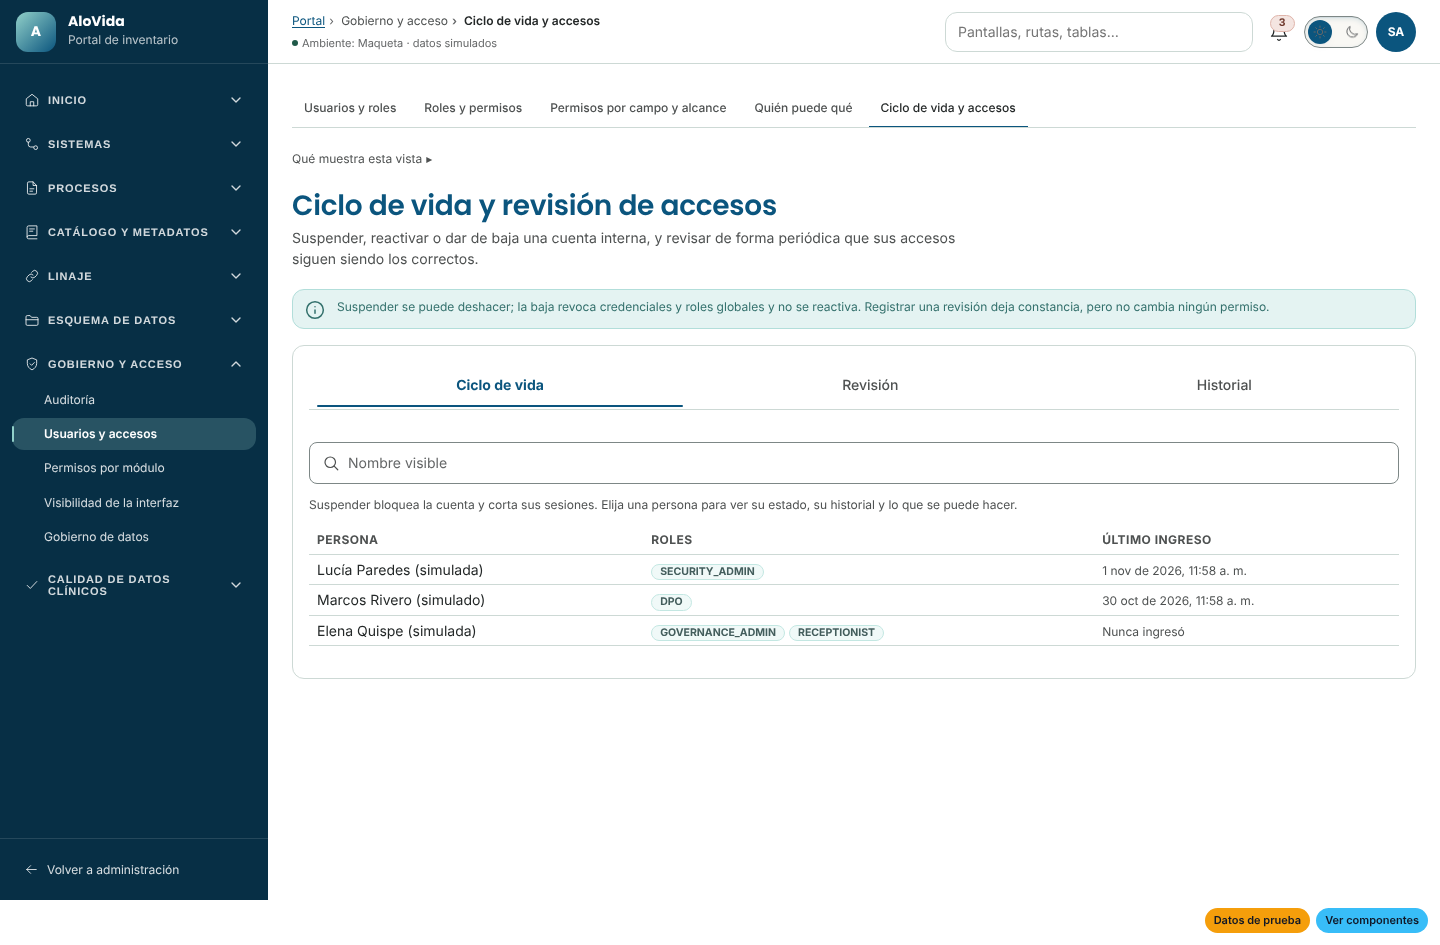
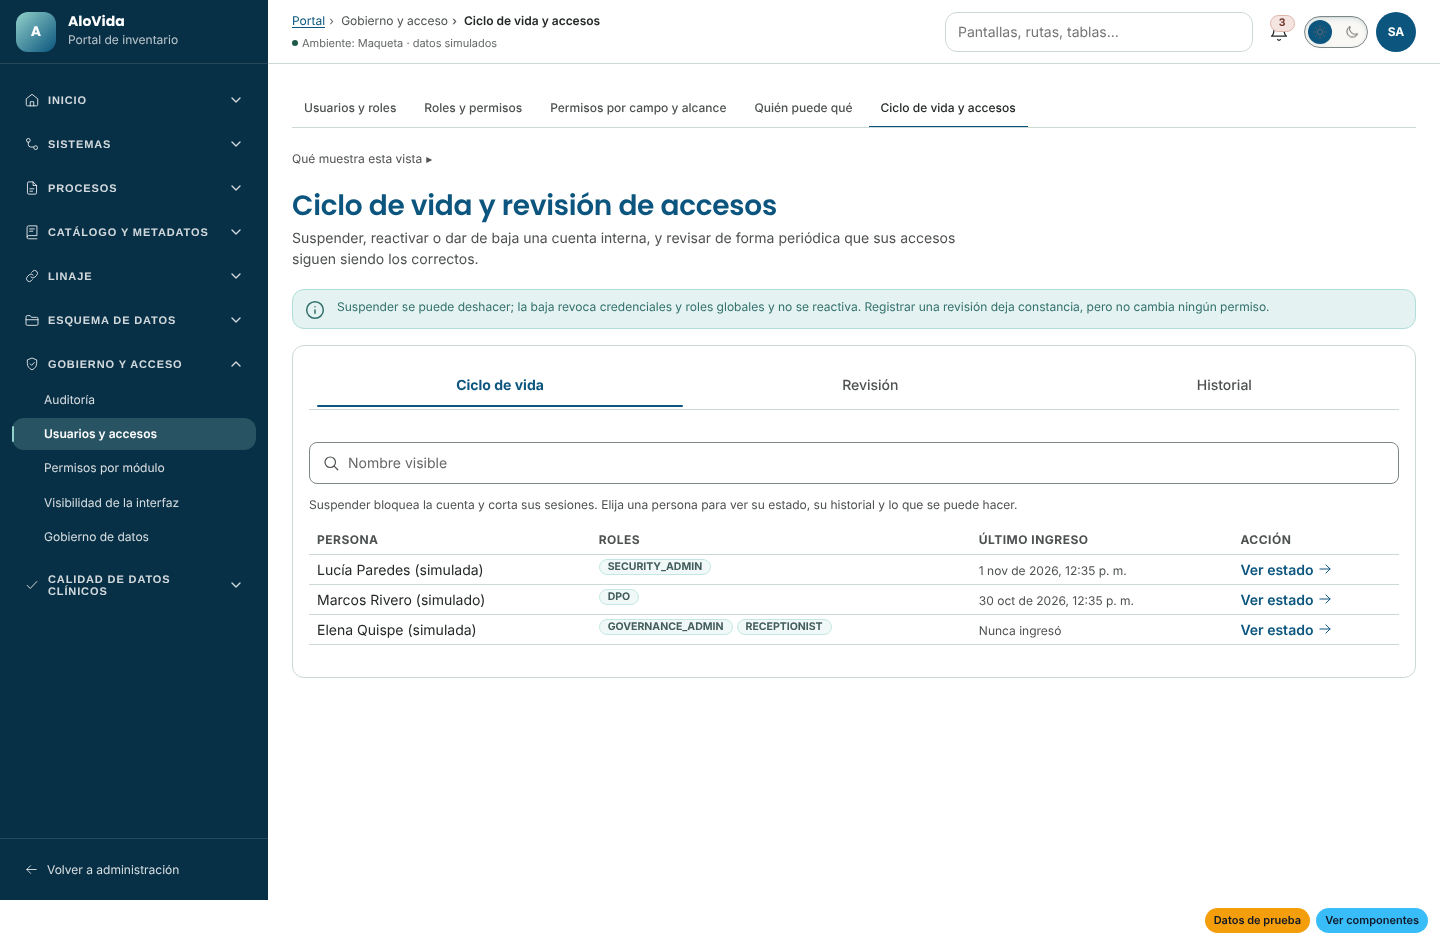
fix(portal): Ciclo de vida y accesos — columna «Acción» con flecha en filas que abren ficha; evidencia de vacío/error/carga (revisión visual 1)
Claude-Session: https://claude.ai/code/session_015srVoda962hL6gd5RrH9vw

Changed region(s): [[0.6562, 0.5524, 0.9375, 0.6751], [0.4062, 0.5524, 0.625, 0.7058], [0.2188, 0.6444, 0.3438, 0.6751]]

diff --git a/src/app/features/admin/portal/permissions/reviews/lifecycle-panel.ts b/src/app/features/admin/portal/permissions/reviews/lifecycle-panel.ts
@@ -7,6 +7,7 @@ import { empty } from '../../../../../core/view-state/view-state';
 import { Badge } from '../../../../../shared/components/atoms/badge/badge';
 import { Alert } from '../../../../../shared/components/molecules/alert/alert';
 import { SearchField } from '../../../../../shared/components/molecules/search-field/search-field';
+import { NavIcon } from '../../../../../shared/components/atoms/nav-icon/nav-icon';
 import { DataTable } from '../../../../../shared/components/organisms/data-table/data-table';
 import type { ColumnDef } from '../../../../../shared/components/organisms/data-table/data-table.types';
 import { roleCodesOf } from '../../governance/access/access.model';
@@ -26,7 +27,7 @@ const URL_KEYS = ['user'] as const;
  */
 @Component({
   selector: 'app-portal-lifecycle-panel',
-  imports: [Badge, Alert, SearchField, DataTable, LifecycleDrawer],
+  imports: [Badge, Alert, SearchField, DataTable, NavIcon, LifecycleDrawer],
   template: `
     <div class="panel" data-testid="portal-lifecycle-panel">
       @if (notice(); as message) {
@@ -60,19 +61,24 @@ const URL_KEYS = ['user'] as const;
       <span class="panel__name">{{ row.displayName }}</span>
     </ng-template>
     <ng-template #rolesCell let-row>
-      @let codes = roleCodes(row);
-      @if (codes.length === 0) {
-        <span class="panel__secondary">Sin roles activos</span>
-      } @else {
-        <span class="panel__badges">
-          @for (code of codes; track code) {
-            <app-badge size="sm" variant="secondary">{{ code }}</app-badge>
-          }
-        </span>
-      }
+      <div class="panel__cell">
+        @let codes = roleCodes(row);
+        @if (codes.length === 0) {
+          <span class="panel__secondary">Sin roles activos</span>
+        } @else {
+          <span class="panel__badges">
+            @for (code of codes; track code) {
+              <app-badge size="sm" variant="secondary">{{ code }}</app-badge>
+            }
+          </span>
+        }
+      </div>
     </ng-template>
     <ng-template #loginCell let-row>
       <span class="panel__secondary">{{ row.lastLoginAt ? when(row.lastLoginAt) : 'Nunca ingresó' }}</span>
+    </ng-template>
+    <ng-template #openCell>
+      <span class="panel__open" aria-hidden="true">Ver estado <app-nav-icon name="arrow-right" /></span>
     </ng-template>
     <app-portal-lifecycle-drawer [userId]="values().user" (closed)="close()" (changed)="changed($event)" />
   `,
@@ -109,6 +115,7 @@ export class LifecyclePanel {
   );
 
   private readonly nameCell = viewChild.required<TemplateRef<{ $implicit: InternalUser }>>('nameCell');
+  private readonly openCell = viewChild.required<TemplateRef<{ $implicit: InternalUser }>>('openCell');
   private readonly rolesCell = viewChild.required<TemplateRef<{ $implicit: InternalUser }>>('rolesCell');
   private readonly loginCell = viewChild.required<TemplateRef<{ $implicit: InternalUser }>>('loginCell');
 
@@ -116,6 +123,7 @@ export class LifecyclePanel {
     { key: 'displayName', header: 'Persona', priority: 1, cell: this.nameCell() },
     { key: 'roles', header: 'Roles', priority: 1, cell: this.rolesCell() },
     { key: 'lastLoginAt', header: 'Último ingreso', priority: 2, cell: this.loginCell() },
+    { key: 'open', header: 'Acción', priority: 1, cell: this.openCell() },
   ]);
   protected readonly byId = (row: InternalUser): string => row.id;
   protected readonly rowName = (row: InternalUser): string => row.displayName;

diff --git a/src/app/features/admin/portal/permissions/reviews/reviews-panel.ts b/src/app/features/admin/portal/permissions/reviews/reviews-panel.ts
@@ -9,6 +9,7 @@ import { Badge } from '../../../../../shared/components/atoms/badge/badge';
 import { Input } from '../../../../../shared/components/atoms/input/input';
 import { Alert } from '../../../../../shared/components/molecules/alert/alert';
 import { FormField } from '../../../../../shared/components/molecules/form-field/form-field';
+import { NavIcon } from '../../../../../shared/components/atoms/nav-icon/nav-icon';
 import { DataTable } from '../../../../../shared/components/organisms/data-table/data-table';
 import type { ColumnDef } from '../../../../../shared/components/organisms/data-table/data-table.types';
 import { dateOnly } from '../../governance/governance-labels';
@@ -29,7 +30,7 @@ const URL_KEYS = ['review'] as const;
  */
 @Component({
   selector: 'app-portal-reviews-panel',
-  imports: [Badge, Input, Alert, FormField, DataTable, ReviewDrawer],
+  imports: [Badge, Input, Alert, FormField, DataTable, NavIcon, ReviewDrawer],
   template: `
     <div class="panel" data-testid="portal-reviews-panel">
       @if (notice(); as message) {
@@ -80,6 +81,9 @@ const URL_KEYS = ['review'] as const;
         <app-badge size="sm" variant="warning">Nunca revisada</app-badge>
       }
     </ng-template>
+    <ng-template #openCell>
+      <span class="panel__open" aria-hidden="true">Revisar <app-nav-icon name="arrow-right" /></span>
+    </ng-template>
     <app-portal-review-drawer [userId]="values().review" (closed)="close()" (changed)="changed($event)" />
   `,
   styleUrl: '../permissions-panel.css',
@@ -106,6 +110,7 @@ export class ReviewsPanel {
   protected readonly daysProblem = computed(() => (this.days() === 'invalid' ? 'Escriba un número entero de 1 a 3650.' : ''));
 
   private readonly nameCell = viewChild.required<TemplateRef<{ $implicit: AccessReviewDue }>>('nameCell');
+  private readonly openCell = viewChild.required<TemplateRef<{ $implicit: AccessReviewDue }>>('openCell');
   private readonly statusCell = viewChild.required<TemplateRef<{ $implicit: AccessReviewDue }>>('statusCell');
   private readonly lastCell = viewChild.required<TemplateRef<{ $implicit: AccessReviewDue }>>('lastCell');
 
@@ -113,6 +118,7 @@ export class ReviewsPanel {
     { key: 'displayName', header: 'Persona', priority: 1, cell: this.nameCell() },
     { key: 'accountStatus', header: 'Estado de la cuenta', priority: 2, cell: this.statusCell() },
     { key: 'lastReviewedAt', header: 'Última revisión', priority: 1, cell: this.lastCell() },
+    { key: 'open', header: 'Acción', priority: 1, cell: this.openCell() },
   ]);
   protected readonly byId = (row: AccessReviewDue): string => row.userId;
   protected readonly rowName = (row: AccessReviewDue): string => row.displayName;

diff --git a/src/app/features/admin/portal/permissions/common/audit-trail-panel.ts b/src/app/features/admin/portal/permissions/common/audit-trail-panel.ts
@@ -71,8 +71,10 @@ const ACTION_LABELS: Readonly<Record<string, string>> = {
       />
     </div>
     <ng-template #actionCell let-row>
-      <span class="panel__name">{{ actionText(row.action) }}</span>
-      <code class="panel__code">{{ row.action }}</code>
+      <div class="panel__cell">
+        <span class="panel__name">{{ actionText(row.action) }}</span>
+        <code class="panel__code">{{ row.action }}</code>
+      </div>
     </ng-template>
     <ng-template #resultCell let-row>
       <app-badge size="sm" [variant]="result(row.result).tone">{{ result(row.result).label }}</app-badge>
